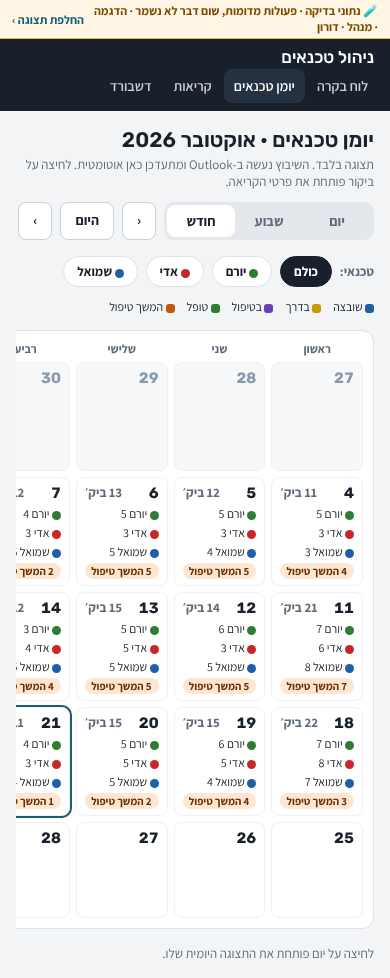
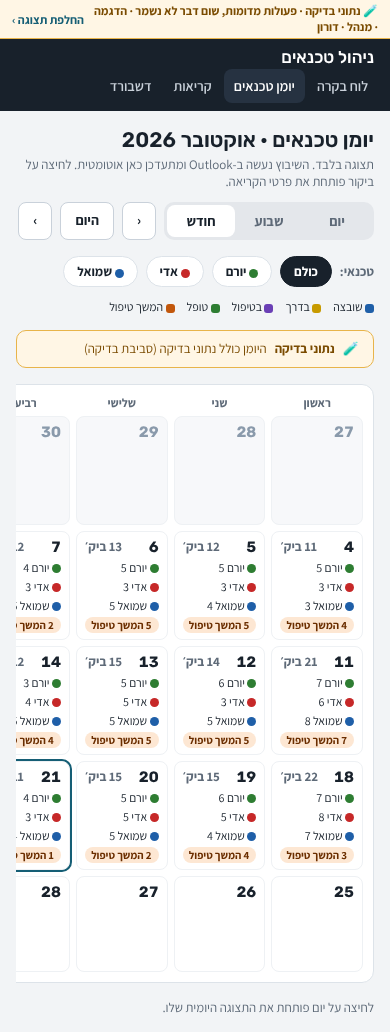
feat(ui-demo-2): office calendar, technician calendar, done visits, notifications, profile; review fixes
- Office calendar ('יומן טכנאים'): day lanes, week and month views,
  technician and status filters, and a call drawer (Customer Service
  and Manager).
- Technician calendar (day, week, month), done visits list and a
  single read-only closed-visit view, notifications (simulated mark
  read), profile.
- Data layer: features/calendar and features/profile ports,
  notification commands; stricter isIsoDate.
- Independent review fixes:
  - sign-out removed;
  - drawer background only on wide screens;
  - test badges on calendar blocks;
  - one closed-visit view;
  - shared calendar date helpers;
  - accessibility.
- Tests: demo e2e and dev-gate coverage for the 7 new routes.
  75 screenshots in docs/review/ui-demo-2.

Written by Claude Code under the owner's direction.

diff --git a/tests/e2e/screenshots.spec.ts b/tests/e2e/screenshots.spec.ts
@@ -268,6 +268,11 @@ test.describe("ui-demo-2 review screenshots", () => {
         await shot(name);
       }
 
+      // "הושלמו היום" with rows: the fixtures have none on the demo's date, so the showcase shows
+      // the list with sample DTOs (rows, 🧪 badges, pager).
+      await openPage(page, "/dev/showcase");
+      await page.locator("#showcase-done-list").screenshot({ path: path.join(OUT_DEMO_2, `${size.width}-showcase-done-list.png`) });
+
       // The drawer is a fixed overlay: a viewport shot, opened from a block as the user would.
       await openPage(page, "/dev/demo/office/mgr/calendar");
       await page.locator('a.ocal-ev[data-cal-visit]').first().click();

diff --git a/docs/WORKLOG.md b/docs/WORKLOG.md
@@ -1,21 +1,22 @@
 # Work Log (English only)
 
 ## 2026-11-04 — UI demo, phase D
-- Branch `claude/ui-demo-2`, stacked on `claude/ui-demo-1` (PR #5). Fictional data only (`/dev/demo`); no Supabase, network or real email; every action is simulated ("פעולה מדומה · לא נשמר"). Every screen reads through `demoDataAccess` and renders through the demo frames (sentinel and "נתוני בדיקה" strip).
+- Branch `claude/ui-demo-2`, started on `claude/ui-demo-1`; PR #5 is now squash-merged to `main` (`013fd2f`), and `main` is merged into this branch. Fictional data only (`/dev/demo`); no Supabase, network or real email; every action is simulated ("פעולה מדומה · לא נשמר"). Every screen reads through `demoDataAccess` and renders through the demo frames (sentinel and "נתוני בדיקה" strip).
 - **Screens** (placeholders replaced):
   - Office "יומן טכנאים" (`office/[role]/calendar`, manager and customer service; OF-03, read-only): day view per technician with overlapping visits in lanes, week view (Sunday to Thursday), month view with counts per technician and follow-ups, technician chips, status legend, previous / today / next (the day view skips Friday and Saturday). The state lives in the URL (`?view&date&tech&req&n`). A visit opens the drawer (modal dialog: focus moves in and stays in, Escape / ✕ / background close it and focus returns to the block) with "לכרטיס הקריאה המלא ›" and a simulated "חיוג לטכנאי". A role without `cal` gets a "🔒 אין הרשאה" card (display-only matrix values, G-04). SIM-14/16/17 badges and source line in the drawer.
   - Technician "היומן שלי" (`tech/calendar`, TE-27): day strip and timeline, week grid, month grid; arrows move by work day, week or month. An open visit's block opens its visit card; a closed visit's block opens its read-only view, whose "› חזרה" returns to the same calendar view.
   - "הושלמו היום" (`tech/done`, TE-26) and the read-only closed visit (`tech/done/[req]/[n]`, D14): the list is empty with today's fixtures, as in `docs/demo.html` (no visit of the demo technician is closed on 21.10). The closed view shows the signed approval text (D43), a recording-length line instead of playback (D36), no field times (TE-25) and 🧪 badges; another technician's or an open visit is a 404.
   - Notifications (`tech/notifications`, TE-28): "חדשות · N" / "קודמות", no pickup-reminder kind; opening an item and "סמן הכל כנקרא" run `useCommands().notifications` (simulated).
-  - Profile (`tech/profile`, TE-29 / TE-30): week figures, two notification toggles through `setPreferences` (simulated), simulated office dial, "דיווח" disabled pending d26, "התנתקות" a disabled placeholder (not in the demo; needs the owner's OK or removal).
+  - Profile (`tech/profile`, TE-29 / TE-30): week figures, two notification toggles through `setPreferences` (simulated), simulated office dial, "דיווח" disabled pending d26. No sign-out entry (not in the demo or the spec; asked of the owner for Step 2).
 - **Integration fixes:**
   - Office week headers and month days: their `.sr-only` text had `<body>` as its containing block, escaped the `.scrollx` scroller and made the whole page scroll sideways at 390 px (`?view=week` 726 px, `?view=month` 622 px). `a.ocal-wk-head` and `a.ocal-mcell` are now `position: relative`.
   - Calendar blocks that are links (office and technician day views) centre their text vertically like the demo's buttons (`a.ev` flex with an `.ev-body` wrapper).
   - Removed `app/dev/demo/_components/Placeholder.tsx`: no demo route uses it any more.
-- **Tests:** the seven routes were already in `DEMO_PAGES` (as placeholders), so the `/dev` gate covers them in all six request variants; the gate's query-string test adds six calendar, closed-visit and paging views. `demo.spec.ts` renders ten more calendar and closed-visit views at 390 / 820 / 1440 and adds: office day navigation (weekend skipped, "היום"), view segments, technician chips, month day to day view; the drawer (open from a day and a week block, Escape, ✕, background, Tab stays inside, focus returns, simulated dial, card link for both roles); technician calendar views and arrows; closed block to the read-only view and back; open block to the visit card; "הושלמו היום" from the home and the closed view's back link; 404 for another technician's, an open and an unknown visit; notifications "סמן הכל כנקרא" and opening an unread item (simulated toasts); profile (week figures, simulated toggle and dial, disabled placeholders, no pickup toggle).
-- **Results:** `eslint` 0 problems; `typecheck` passed; `build` passed (559 pages); `test:ci` 8/8; `scan:bundle` passed (2912 files); Playwright 783 passed, 0 failed, 882 skipped (one-project tests, by design), green on two consecutive full runs. `scan:secrets` not run (it downloads Gitleaks; no network in this run).
+- **Tests:** the seven routes were already in `DEMO_PAGES` (as placeholders), so the `/dev` gate covers them in all six request variants; the gate's query-string test adds six calendar, closed-visit and paging views. `demo.spec.ts` renders ten more calendar and closed-visit views at 390 / 820 / 1440 and adds: office day navigation (weekend skipped, "היום"), view segments, technician chips, month day to day view; the drawer (open from a day and a week block, Escape, ✕, a background click at 820 and 1440 (at 390 the drawer fills the screen, and the test asserts which case applies), Tab stays inside, focus returns, simulated dial, card link for both roles); technician calendar views and arrows; closed block to the read-only view and back; open block to the visit card; "הושלמו היום" from the home and the closed view's back link; 404 for another technician's, an open and an unknown visit; notifications "סמן הכל כנקרא" and opening an unread item (simulated toasts); profile (week figures, simulated toggle and dial, disabled placeholders, no pickup toggle).
+- **Results:** `eslint` 0 problems; `typecheck` passed; `build` passed (559 pages); `test:ci` 8/8; `scan:bundle` passed (2912 files); Playwright 783 passed, 0 failed, 882 skipped (one-project tests, by design), green on three consecutive full runs. `scan:secrets` not run (it downloads Gitleaks; no network in this run).
 - **Screenshots:** 72 images in `docs/review/ui-demo-2/` (12 app states and 12 matching `docs/demo.html` states at 390 / 820 / 1440), from a local production build (`SCREENSHOTS=1 … -g "ui-demo-2"`). The demo's "הושלמו היום" list and closed view are shown after closing visit 48205/2 in the demo, because the list starts empty there too.
-- **Open items (owner look or decision):** no status filter and no now-line in the office calendar (not in the demo); the drawer covers the whole phone screen (demo look kept); "התנתקות" placeholder; read state and toggles are not kept across screens; the visit card's back link goes to the technician home, not back to the calendar or notifications; two read-only closed-visit views exist (`tech/visit/...` for closed visits and `tech/done/...`); the closed view has no signature image (no DTO field); a simulated close does not appear in the calendar or "הושלמו היום"; a Friday or Saturday opened from the technician month view is always empty; the profile toggle is the demo's 23 px height.
+- **Review fix pass (independent review of 42bb13b, R1–R20):** the drawer background-click test now runs and asserts at 820 / 1440 (R1); the "התנתקות" placeholder is removed (R2); `CallDrawer` takes its dial from the page (R3); the profile's d26 hint is a page prop (R4); office day and week blocks carry 🧪 and the calendar shows the "נתוני בדיקה" note (R5); one read-only closed-visit view (`DoneVisitView`), linked from the home and the landing page, also served at `tech/visit/...` for a closed visit, and `VisitInfoClosed` deleted (R6); the landing page lists the new screens (R7); one set of pure date helpers in `features/calendar/data/dates.ts` with a shared `shiftCalendarDate` (office month arrows no longer land on a weekend) and shared arrow names "יום העבודה הקודם / הבא" (R8, R14); `ClosedVisitDetail` has no field times (R9); weekend month links use `--muted` (R10); the "מועד" row and the profile email (not in the demo) are removed (R11); the showcase renders a "הושלמו היום" list with rows, tested at 390 / 820 / 1440 (R12); "ועוד ביקור אחד" (R13); the view switch and day strip are groups, not landmarks (R15); a shared `BellLink` and required header links (R16); a cancelled visit has no drawer (R17); `demoHref.techNotifications(page)` (R19, part). Checks after the fixes: `eslint` 0 problems, `typecheck` passed, `build` passed (559 pages), `test:ci` 8/8, `scan:bundle` passed (2912 files), Playwright 795 passed, 0 failed, 882 skipped; the `ui-demo-2` screenshots were regenerated (75 images, three new `showcase-done-list`).
+- **Open items (owner look or decision):** no status filter and no now-line in the office calendar (not in the demo); the drawer covers the whole phone screen (demo look kept); read state and toggles are not kept across screens; the visit card's back link goes to the technician home, not back to the calendar or notifications; the closed view has no signature image (no DTO field); a simulated close does not appear in the calendar or "הושלמו היום"; a Friday or Saturday opened from the technician month view is always empty; the profile toggle is the demo's 23 px height.
 
 ## 2026-11-03/04 — PR #3 and PR #4 merged; D53; UI demo
 - **PR #3 (Step 1 / PR 1.1, documentation)** squash-merged as `1c6926e` after the owner's explicit approval ("merge approved — PR #3 only"). CI run 41632343961 green. Production deployment `dpl_5NYYw1JugbbVYt2nEY7q4wTPfkpN` READY, built from `1c6926e`.
